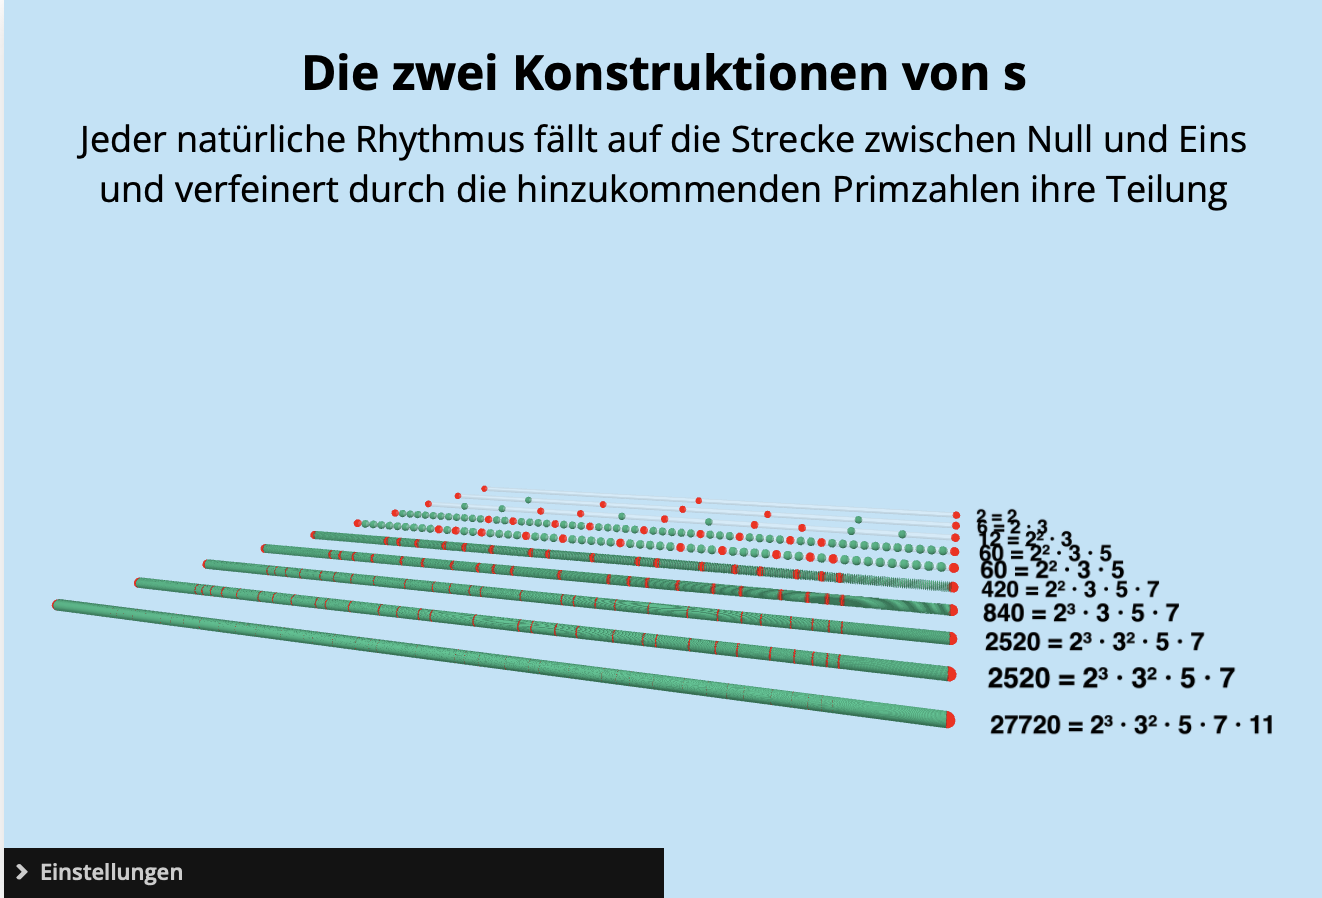
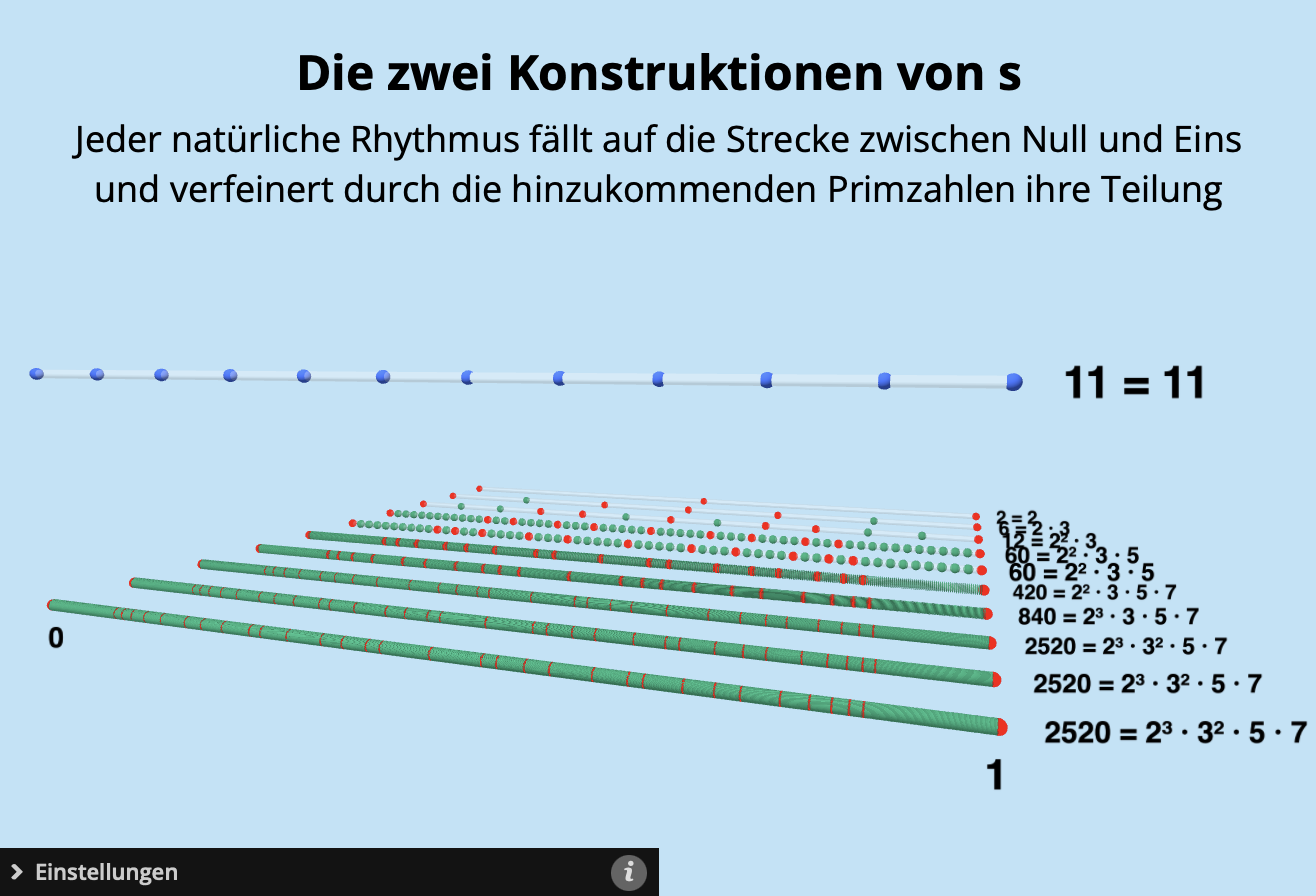
Make URL parameter for construction mode on 'Zwei-Konstruktionen-von-s-3D.html' - theme SupNum
- Add second view to display the other mode on 'Arithmetische-Struktur-der-Geometrie.php'

diff --git a/share/animations/Zwei-Konstruktionen-von-s-3D.html b/share/animations/Zwei-Konstruktionen-von-s-3D.html
@@ -136,7 +136,11 @@
       const groundZ = 0.5         // Tiefen-Position von Bodenlinie und fallenden Zeilen
       const pointRadius = 0.022
 
-      let constructionMode = 'teilung' // 'teilung' oder 'wiederholung', s. Panel weiter unten
+      // Steuerung von außen (z.B. per iframe-URL "...?konstruktion=wiederholung"), damit sich dieselbe
+      // Animation mehrfach auf einer Seite einbinden lässt, jede fest auf einen Modus eingestellt -
+      // das Panel bleibt trotzdem bedienbar, falls jemand doch wechseln möchte.
+      const urlParams = new URLSearchParams( window.location.search )
+      let constructionMode = urlParams.get( 'konstruktion' ) === 'wiederholung' ? 'wiederholung' : 'teilung'
       let maxRhythms = 11
       let speedFactor = 2
       let paused = false
@@ -496,6 +500,11 @@
                                       // länger als basePauseDuration, damit die neuen blauen Punkte
                                       // erst noch einblenden (s. missingFadeInDuration) und das fertige
                                       // Bild eine Weile stehen bleibt, bevor alles geleert wird
+
+      // Falls die Animation direkt im Wiederholung-Modus startet (z.B. per URL-Parameter): schon die
+      // anfängliche "1"-Bodenlinie muss vor dem ersten Fall (currentK=2) schrumpfen, genau wie bei
+      // jedem weiteren Übergang - s. performCycleReset() für den gleichen Fall bei einem Neustart.
+      if ( constructionMode === 'wiederholung' ) setupGroundShrink()
 
       function spawnRow( k ) {
         const group = new THREE.Group()

diff --git a/share/php/NSOSP.php b/share/php/NSOSP.php
@@ -958,12 +958,19 @@
                                                          text => 'Die Grafik zeigt, wie durch den Zusammenfall aller Rhythmen der natürlichen Zahlen,'."\n".
                                                                  'von der Eins an bis ins Unendliche, die superiale Basis \lm{ \s } konstruiert wird.'."\n");
 
-  $SupNum_g_iframe_ary_sGeomKonstrukt3D         = array( source => $Glo_PathRel_back.'../share/animations/Zwei-Konstruktionen-von-s-3D.html', width => '660px', height => '450px', name => 'set local',
-                                                         text => 'Die Animation vereint beide Konstruktionen in einem einzigen, sich Schritt für Schritt aufbauenden Vorgang:'."\n".
+  $SupNum_g_iframe_ary_sGeomKonstrukt3D_Wiederholung = array( source => $Glo_PathRel_back.'../share/animations/Zwei-Konstruktionen-von-s-3D.html?konstruktion=wiederholung', width => '660px', height => '450px', name => 'set local',
+                                                         text => 'Die Animation zeigt die Konstruktion der rhythmischen Wiederholung:'."\n".
+                                                                 'jede natürliche Zahl fällt der Reihe nach in Königsblau herab und wird zur neuen Bodenlinie, deren Länge sich zuvor auf den Anteil verkürzt, den die bisherige Gesamtzahl an der neuen, feineren Gesamtzahl ausmacht.'."\n".
+                                                                 'Die roten Punkte zeigen die jeweils aktuelle gleichmäßige Teilung, die jadegrün markierten Zwischenpunkte die noch fehlenden Punkte zu einer wirklich gleichmäßigen Verteilung.',
+                                                         print_image => $Glo_PathRel_back.'../share/images/SN/Zwei-Konstruktionen-von-s-3D-Wiederholung-print.png',
+                                                         print_image_alt => 'Die Konstruktion der Wiederholung von s, interaktive 3D-Animation');
+
+  $SupNum_g_iframe_ary_sGeomKonstrukt3D_Teilung  = array( source => $Glo_PathRel_back.'../share/animations/Zwei-Konstruktionen-von-s-3D.html?konstruktion=teilung', width => '660px', height => '450px', name => 'set local',
+                                                         text => 'Die Animation zeigt die Konstruktion der rhythmischen Zerlegung:'."\n".
                                                                  'jede natürliche Zahl fällt der Reihe nach in Königsblau auf die Zahlengerade zwischen Null und Eins und hinterlässt dort in Rot die Punkte, die zum bisherigen Rhythmus neu hinzukommen.'."\n".
                                                                  'Die jadegrün markierten Zwischenpunkte zeigen jeweils, welche weiteren Punkte für eine wirklich gleichmäßige Teilung an dieser Stelle noch fehlen würden.',
                                                          print_image => $Glo_PathRel_back.'../share/images/SN/Zwei-Konstruktionen-von-s-3D-print.png',
-                                                         print_image_alt => 'Die zwei Konstruktionen von s, interaktive 3D-Animation');
+                                                         print_image_alt => 'Die Konstruktion der Teilung von s, interaktive 3D-Animation');
 
 
   $ZS_g_figure_ary_GraviLeptonWirkung        = array( fig_file_name => 'Zahlensemantik/Gravi_Lepton-Wirkung_v12', fig_alt_description => 'Graviradiation eines simplifizierten Leptonen-Strings', width => '660px', height => '825px', name => 'set local',

diff --git a/de/Superial-Zahlen/Arithmetische-Struktur-der-Geometrie.php b/de/Superial-Zahlen/Arithmetische-Struktur-der-Geometrie.php
@@ -739,12 +739,15 @@
                   'Entstehung von \lm{ \s } als 3D-Animation', subline =>
                     '')),
                   array( 'text', array( text => array(
-                    'Die beiden vorangegangenen, statischen Konstruktionen lassen sich auch als ein einziger, dynamischer Vorgang begreifen:'."\n".
-                    'Rhythmus für Rhythmus kommt eine weitere natürliche Zahl hinzu und verfeinert gemeinsam mit den schon vorhandenen Rhythmen die Teilung der Strecke zwischen Null und Eins.'."\n".
+                    'Die beiden vorangegangenen, statischen Konstruktionen lassen sich auch als zwei dynamische Vorgänge begreifen:'."\n".
+                    'Rhythmus für Rhythmus kommt eine weitere natürliche Zahl hinzu und verfeinert die Teilung der Strecke zwischen Null und Eins - einmal in der Wiederholung, einmal in der Zerlegung.'."\n".
                     ''))),
 
                   array( 'iframe',
-                    array_merge( $SupNum_g_iframe_ary_sGeomKonstrukt3D, array( name => 'OM:SupNum:Arithmetische-Struktur-Geometrie:Vortext:LiveAni-ZweiKonstruktionen'))),
+                    array_merge( $SupNum_g_iframe_ary_sGeomKonstrukt3D_Wiederholung, array( name => 'OM:SupNum:Arithmetische-Struktur-Geometrie:Vortext:LiveAni-ZweiKonstruktionen'))),
+
+                  array( 'iframe',
+                    array_merge( $SupNum_g_iframe_ary_sGeomKonstrukt3D_Teilung, array( name => 'OM:SupNum:Arithmetische-Struktur-Geometrie:Vortext:LiveAni-ZweiKonstruktionen-Teilung'))),
 
                   array( 'text', array( text => array(
                     'So wird sichtbar, wie mit jeder neu hinzukommenden Primzahl in einem der Rhythmen die Teilung der Strecke tatsächlich um genau diese Primzahl feiner wird –'."\n".

diff --git a/de/Superial-Zahlen/SupNum-Data.php b/de/Superial-Zahlen/SupNum-Data.php
@@ -263,6 +263,7 @@
           'OM:SupNum:Arithmetische-Struktur-Geometrie:Vortext:Zwei-Konstruktionen-von-s' => array( headline_text => 'Die zwei Konstruktionen von \lm{ \s }',/* headline_text_short => 'X' */),
           'OM:SupNum:Arithmetische-Struktur-Geometrie:Vortext:Entstehung-von-s-als-3D-Animation' => array( headline_text => 'Entstehung von \lm{ \s } als 3D-Animation',/* headline_text_short => 'X' */),
             'OM:SupNum:Arithmetische-Struktur-Geometrie:Vortext:LiveAni-ZweiKonstruktionen' => array( headline_text => '3D-Animation '.(++$FrQFT_g_LiveAni_idx)),
+            'OM:SupNum:Arithmetische-Struktur-Geometrie:Vortext:LiveAni-ZweiKonstruktionen-Teilung' => array( headline_text => '3D-Animation '.(++$FrQFT_g_LiveAni_idx)),
 
         'OM:SupNum:Arithmetische-Struktur-Geometrie:OntologieDerGeometrie' => array( headline_text => 'Die Ontologie der Geometrie'/* , headline_text_short => 'X' */),
           'OM:SupNum:Arithmetische-Struktur-Geometrie:OntologieDerGeometrie:Ontologische-Unterschied-zwischen-Abstand-und-Anzahl-von-Punkten' => array( headline_text => 'Der ontologische Unterschied zwischen dem Abstand von und der Anzahl an Punkten'/* , headline_text_short => 'X' */),
